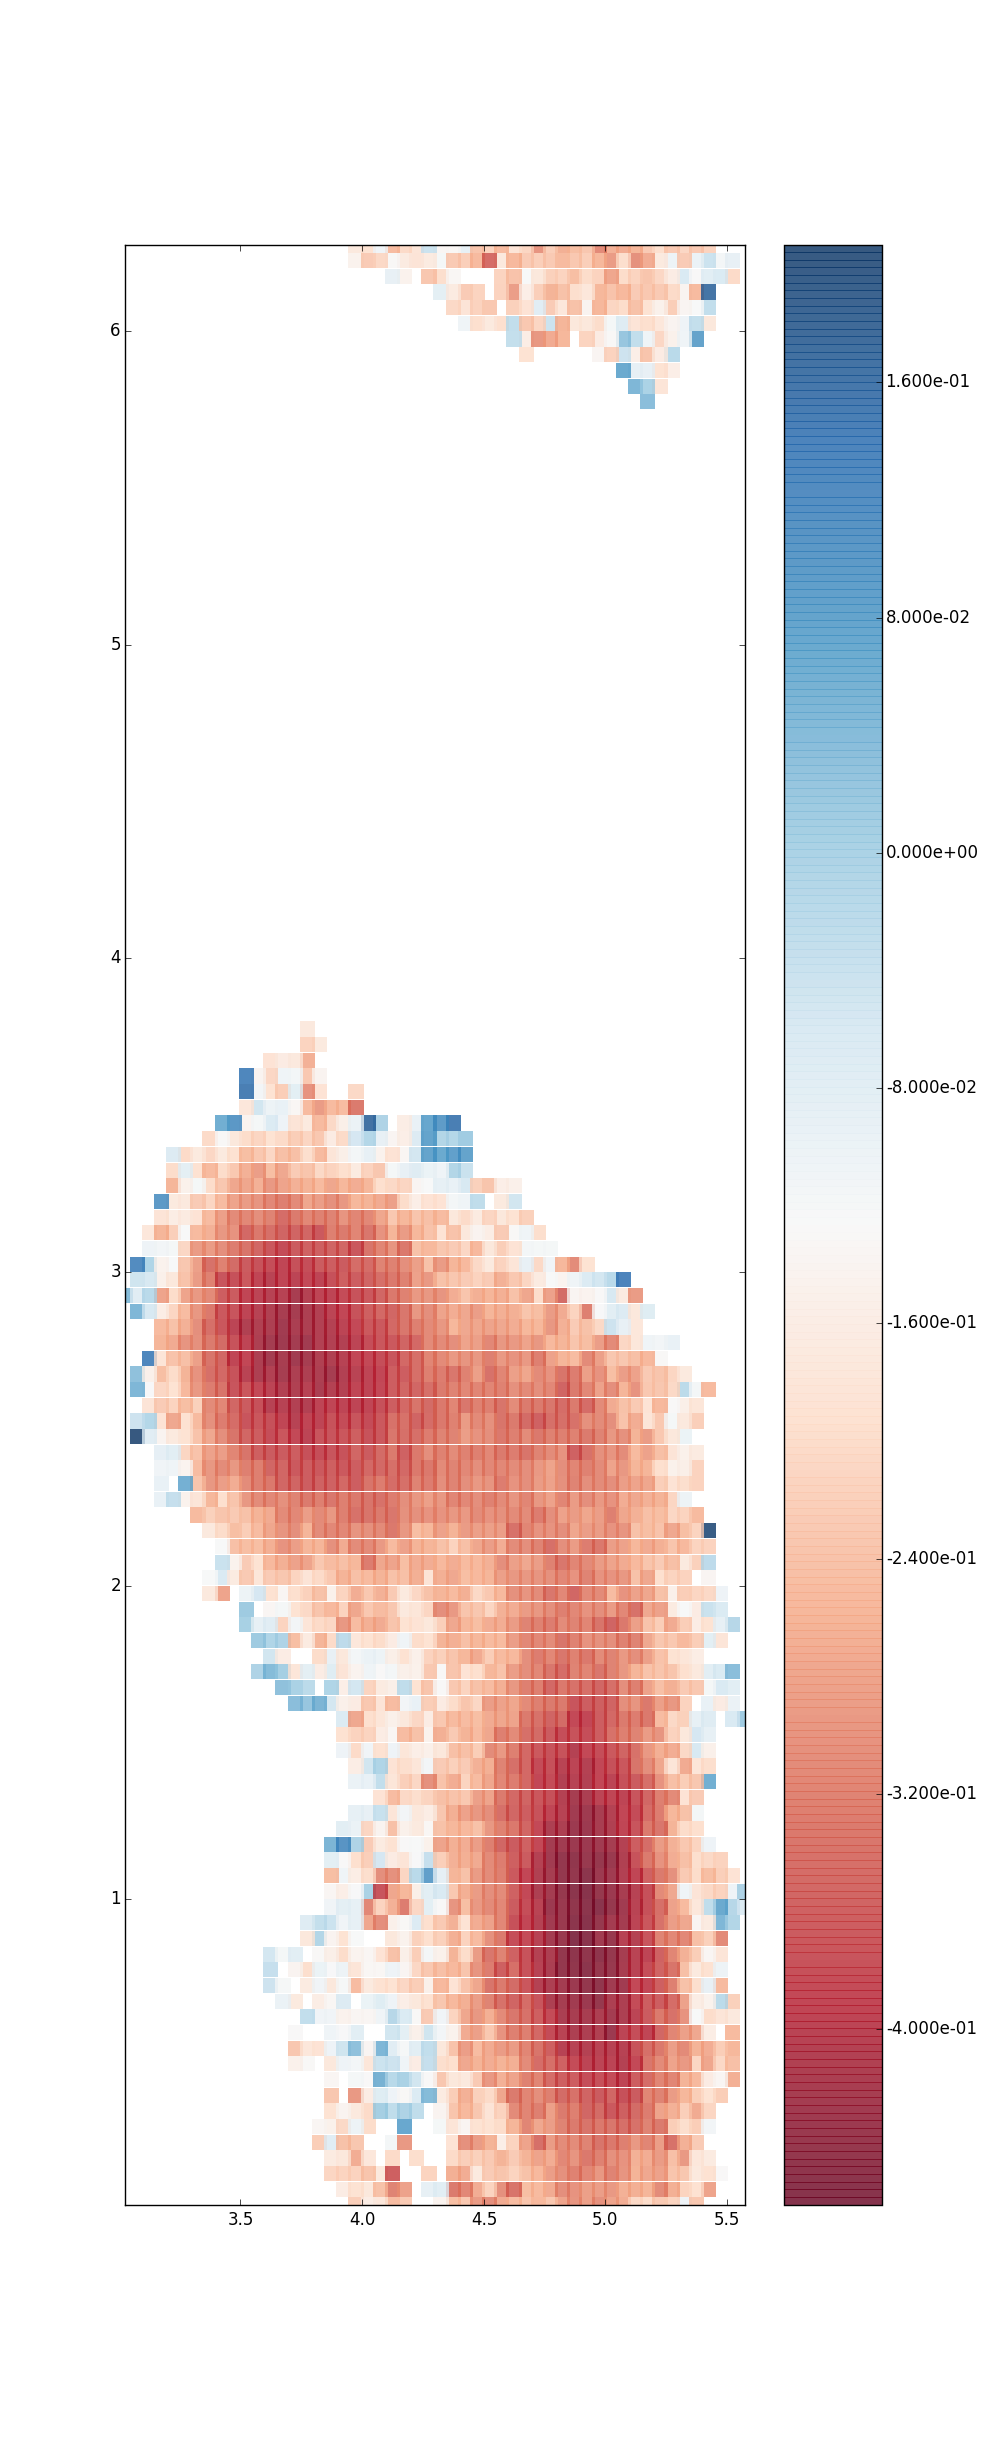
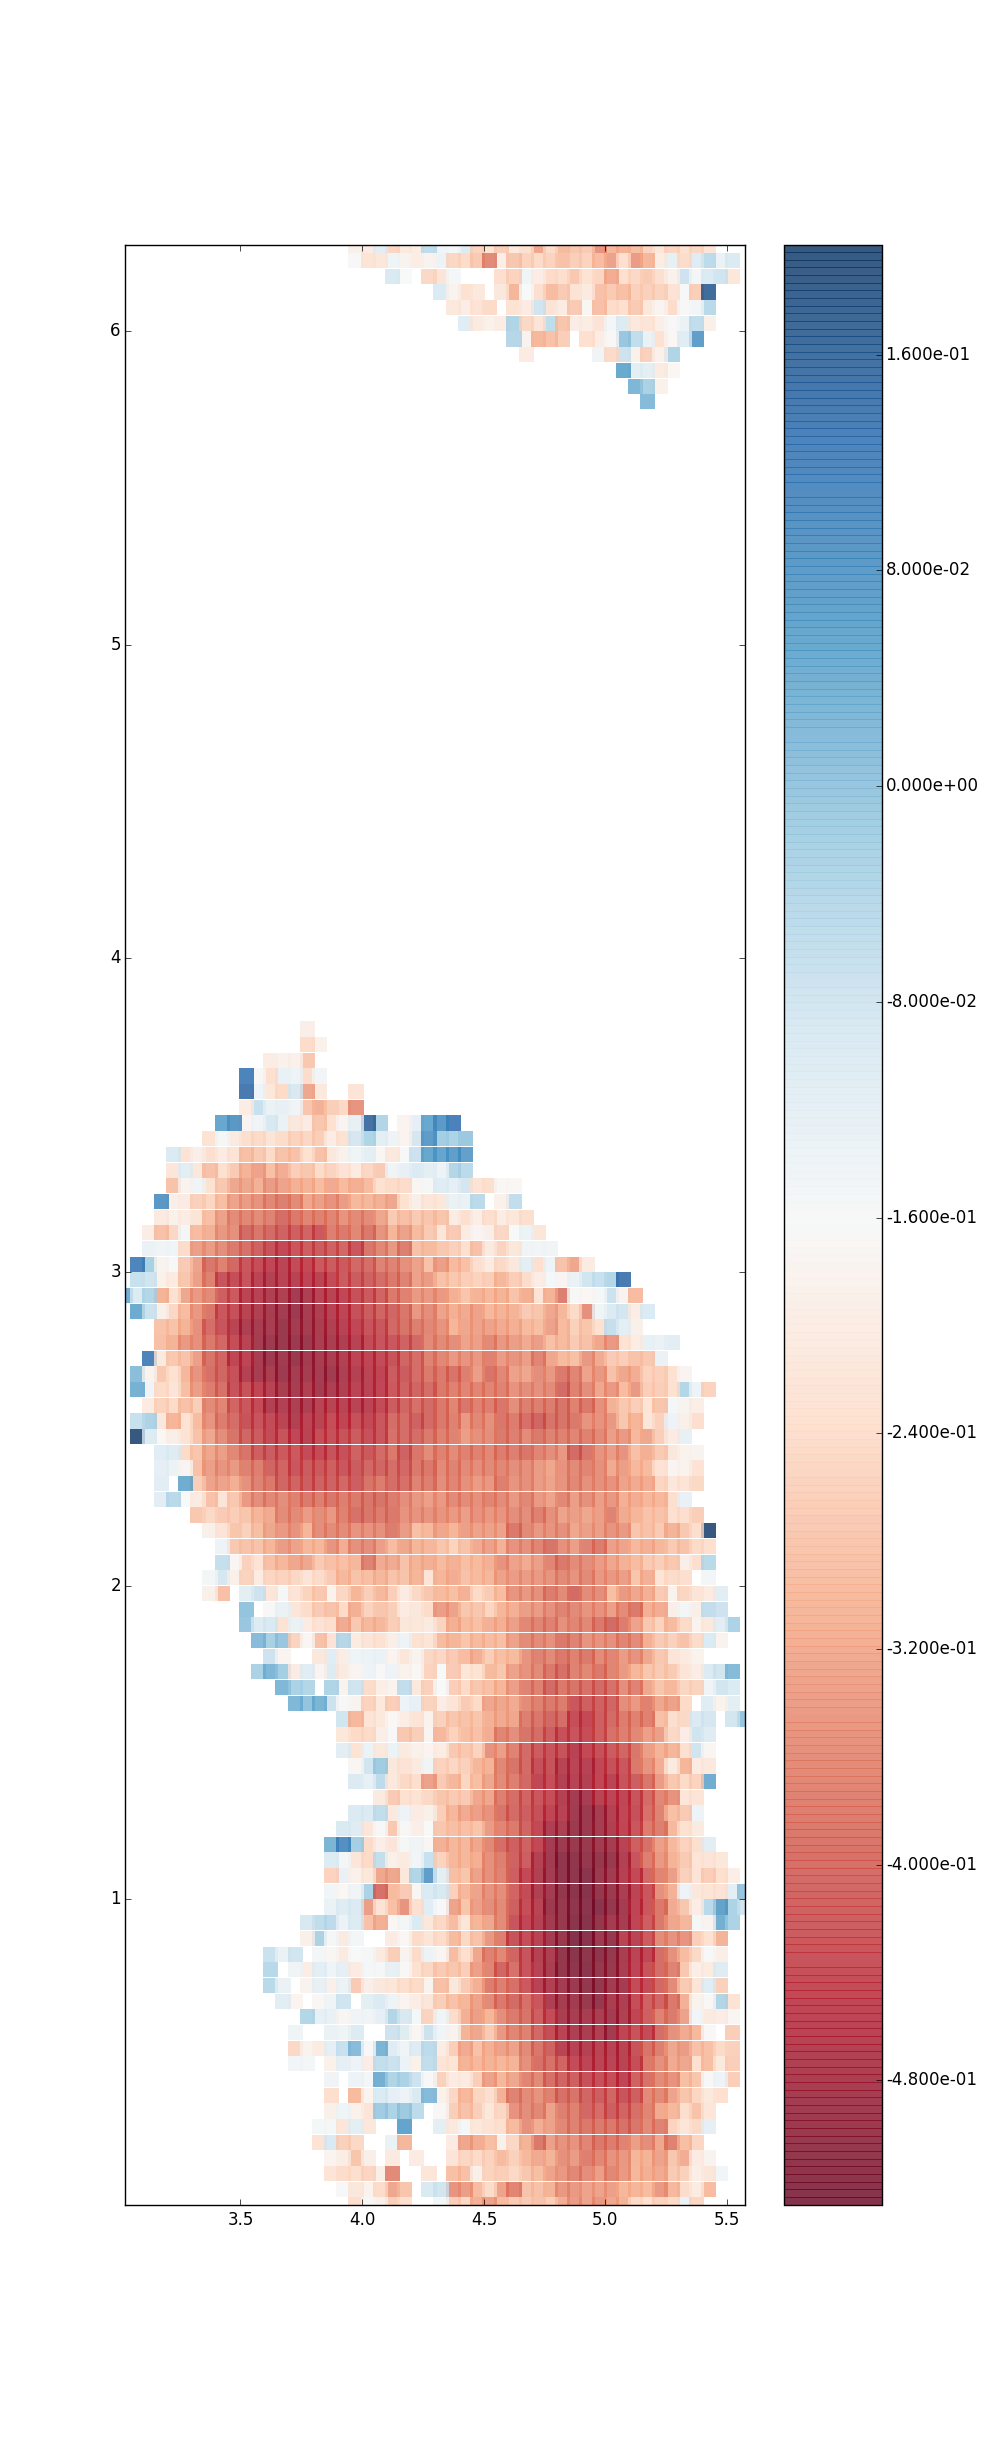
Corrected definitions of S and F

diff --git a/md_db0_build.py b/md_db0_build.py
@@ -7,6 +7,7 @@ from ase import units
 from ase import Atoms
 import matplotlib.pyplot as plt
 from matplotlib.mlab import griddata
+import pickle as pkl
 
 dihedral_atoms_phi = [4,6,8,14] # C(O)-N-C(a)-C(O)
 dihedral_atoms_psi = [6,8,14,16] # N-C(a)-C(O)-N
@@ -55,8 +56,8 @@ def round_vector(vec, precision = 0.05):
 
 ### CODE STARTS HERE ###
 
-run_from_scratch = False
-T = 300
+run_from_scratch = True
+T = 400
 
 if run_from_scratch:
     setattr(Atoms, 'phi', phi_)
@@ -97,9 +98,9 @@ if run_from_scratch:
 
     phipsi_pot = sp.hstack((colvars,energies[:,None]))
     print("Saving data...")
-    sp.savetxt('phi_psi_pot_md.csv', phipsi_pot)
+    sp.savetxt('phi_psi_pot_md300.csv', phipsi_pot)
 else:
-    data = sp.loadtxt('phi_psi_pot_md.csv')
+    data = sp.loadtxt('phi_psi_pot_md300.csv')
     colvars = data[:,:2]
     energies = data[:,2]
 
@@ -115,17 +116,22 @@ colvars_2 = []
 energies_mean = []
 energies_min = []
 n_confs = []
+free_energies = []
+
 for s, energy in energies_r.iteritems():
+    energy = sp.array(energy)
     colvars_2.append(sp.array(s.split('-')).astype('float'))
-    energies_mean.append(sp.array(energy).mean())
-    energies_min.append(sp.array(energy).min())
+    energies_mean.append(energy.mean())
+    energies_min.append(energy.min())
     n_confs.append(len(energy))
+    free_energies.append(- units.kB * T * sp.log(sp.exp(-energy / (units.kB * T)).sum()))
 
 colvars_2 = sp.array(colvars_2)
 n_confs = sp.array(n_confs)
 energies_min = sp.array(energies_min)
 energies_mean = sp.array(energies_mean)
-entropy = units.kB * sp.log(n_confs)
+free_energies = sp.array(free_energies)
+
 
 phi, psi = colvars_2[:,0], colvars_2[:,1]
 phimin, phimax = phi.min(), phi.max()
@@ -141,14 +147,7 @@ ax.set_xlim(phimin, phimax)
 ax.set_ylim(psimin, psimax)
 plt.colorbar(sc, format='%.3e')
 fig.savefig('energy_mean.png')
-ax.clear()
-fig, ax = plt.subplots(1,1,figsize=(10,10*aspect_ratio))
-sc = ax.scatter(phi, psi, c=entropy, marker = 's', s = 120,
-           cmap = 'RdBu', alpha = .8, edgecolors='none')
-ax.set_xlim(phimin, phimax)
-ax.set_ylim(psimin, psimax)
-plt.colorbar(sc, format='%.3e')
-fig.savefig('entropy.png')
+
 ax.clear()
 fig, ax = plt.subplots(1,1,figsize=(10,10*aspect_ratio))
 sc = ax.scatter(phi, psi, c=energies_min, marker = 's', s = 120,
@@ -157,23 +156,34 @@ ax.set_xlim(phimin, phimax)
 ax.set_ylim(psimin, psimax)
 plt.colorbar(sc, format='%.3e')
 fig.savefig('energy_min.png')
-ax.clear()
-fig, ax = plt.subplots(1,1,figsize=(10,10*aspect_ratio))
-sc = ax.scatter(phi, psi, c=energies_min - T*entropy, marker = 's', s = 120,
-           cmap = 'RdBu', alpha = .8, edgecolors='none')
-ax.set_xlim(phimin, phimax)
-ax.set_ylim(psimin, psimax)
-plt.colorbar(sc, format='%.3e')
-fig.savefig('free_energy_min.png')
-ax.clear()
-fig, ax = plt.subplots(1,1,figsize=(10,10*aspect_ratio))
-sc = ax.scatter(phi, psi, c=energies_mean - T*entropy, marker = 's', s = 120,
-           cmap = 'RdBu', alpha = .8, edgecolors='none')
-ax.set_xlim(phimin, phimax)
-ax.set_ylim(psimin, psimax)
-plt.colorbar(sc, format='%.3e')
-fig.savefig('free_energy_mean.png')
 
+ax.clear()
+fig, ax = plt.subplots(1,1,figsize=(10,10*aspect_ratio))
+sc = ax.scatter(phi, psi, c=free_energies, marker = 's', s = 120,
+           cmap = 'RdBu', alpha = .8, edgecolors='none')
+ax.set_xlim(phimin, phimax)
+ax.set_ylim(psimin, psimax)
+plt.colorbar(sc, format='%.3e')
+fig.savefig('free_energy.png')
+
+ax.clear()
+fig, ax = plt.subplots(1,1,figsize=(10,10*aspect_ratio))
+sc = ax.scatter(phi, psi, c=energies_min-free_energies, marker = 's', s = 120,
+           cmap = 'RdBu', alpha = .8, edgecolors='none')
+ax.set_xlim(phimin, phimax)
+ax.set_ylim(psimin, psimax)
+plt.colorbar(sc, format='%.3e')
+fig.savefig('TS_min.png')
+
+
+ax.clear()
+fig, ax = plt.subplots(1,1,figsize=(10,10*aspect_ratio))
+sc = ax.scatter(phi, psi, c=energies_mean-free_energies, marker = 's', s = 120,
+           cmap = 'RdBu', alpha = .8, edgecolors='none')
+ax.set_xlim(phimin, phimax)
+ax.set_ylim(psimin, psimax)
+plt.colorbar(sc, format='%.3e')
+fig.savefig('TS_mean.png')
 
 
 # X, Y, Z = grid(colvars[:,0], colvars[:,1], energies)
